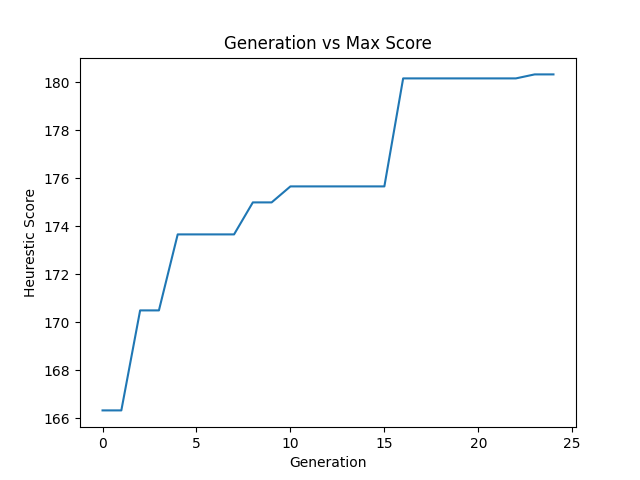
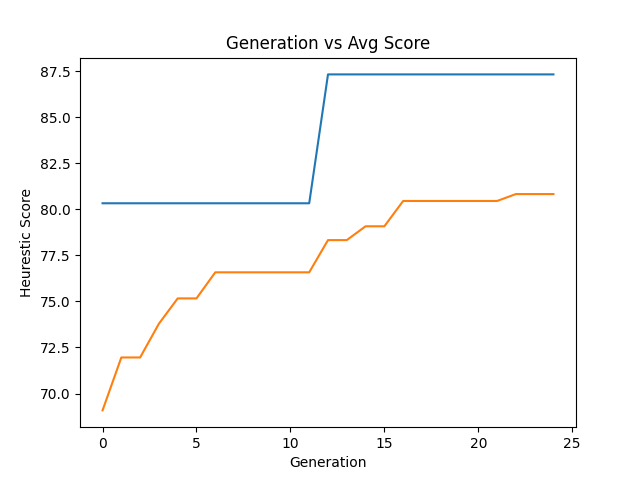
Finish

diff --git a/genetic.py b/genetic.py
@@ -420,31 +420,38 @@ def OX(plane: Plane, g1, g2):
     return (off1, off2)
 
 
-initial_pop = 256
+initial_pop = 128
 
-plane = Plane(200, 6, [1], 3)
+plane = Plane(100, 6, [1], 3)
 plane.populate_w_sample(80)
 
 generations = []
+max_h = []
+avg_h = []
 
 curr = []
 for i in range(initial_pop):
     curr.append(Genome(plane))
 
-iterations = 25
-while iterations > 0:
+change = 1
+prev = -1
+while change >= .1:
     next = []
 
     heap = []
     for genome in curr:
         hq.heappush(heap, (-genome.calc_heuristic(plane), genome))
 
+    r_sum = 0
     for i in range(len(curr) // 2):
         elem1 = hq.heappop(heap)
         elem2 = hq.heappop(heap)
 
+        r_sum -= elem1[0]
+        r_sum -= elem2[0]
         if i == 0:
-            generations.append((-elem1[0], deepcopy(elem1[1])))
+            generations.append(deepcopy(elem1[1]))
+            max_h.append(-elem1[0])
 
         children = OX(plane, elem1[1], elem2[1])
         score1 = children[0].calc_heuristic(plane)
@@ -460,30 +467,28 @@ while iterations > 0:
         next.append(hq.heappop(results)[1])
         next.append(hq.heappop(results)[1])
 
+    avg_h.append(r_sum / len(curr))
+
+    if prev == -1:
+        prev = avg_h[-1]
+    else:
+        change = abs(avg_h[-1] - prev)
+        prev = avg_h[-1]
+
     curr = next
-    iterations -= 1
 
-for i in range(len(generations)):
-    print(i, generations[i][0]) 
-
-iterations = []
-scores = []
-for i in range(len(generations)):
-    iterations.append(i)
-    scores.append(generations[i][0])
-
-plt.plot(scores)
+plt.figure(1)
+plt.plot(max_h)
 plt.title("Generation vs Max Score")
 plt.xlabel("Generation")
 plt.ylabel("Heurestic Score")
-plt.savefig("please")
+plt.savefig("g1")
 
-# generations, list of genomes
-# genome.arr
-# in that arr is a list of passengers
-# passengers.score
+# Create second figure
+plt.figure(2)
+plt.plot(avg_h)
+plt.title("Generation vs Avg Score")
+plt.xlabel("Generation")
+plt.ylabel("Heurestic Score")
+plt.savefig("g2")
 
-'''
-for elem in generation:
-
-'''
